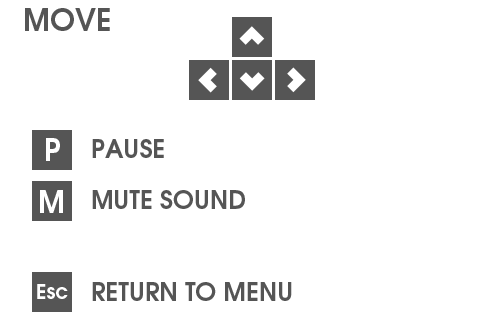
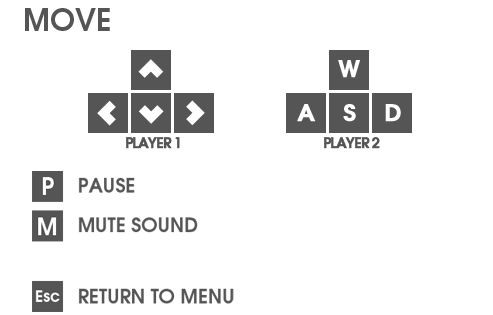
Controls page updated for multiplayer + header info added

Changed region(s): [[0.0609, 0.0286, 0.8519, 0.7714], [0.0609, 0.8571, 0.6085, 1.0]]

diff --git a/src/snake/control/ControlMenuSinglePlayer.java b/src/snake/control/ControlMenuSinglePlayer.java
@@ -1,6 +1,5 @@
 package snake.control;
 
-import java.awt.Color;
 import java.awt.event.ActionEvent;
 import java.awt.event.ActionListener;
 import java.awt.event.KeyAdapter;
@@ -12,13 +11,12 @@ import javax.swing.border.LineBorder;
 
 import snake.model.*;
 import snake.view.*;
-public class ControlMenuSinglePlayer extends KeyAdapter implements
-		ActionListener {
+public class ControlMenuSinglePlayer extends KeyAdapter implements ActionListener {
 
 	private Game game;
 	private View view;
 	private ViewMenuSinglePlayer viewMenuSinglePlayer;
-	private JButton play, back, easy, intermediate, hard, green, blue, red, yellow;
+	private JButton play, back, kindergarten, easy, intermediate, hard, green, blue, red, yellow;
 	private Border thickBorder;
 	
 	public ControlMenuSinglePlayer(Game game, View view) {
@@ -26,9 +24,9 @@ public class ControlMenuSinglePlayer extends KeyAdapter implements
 		this.view = view;
 		this.viewMenuSinglePlayer = view.getViewMenuSinglePlayer();
 		this.view.addKeyListener(this);
-		game.setTimedMovementSpeed(300); //default difficulty = easy
 		play = this.viewMenuSinglePlayer.getPlayButton();
 		back = this.viewMenuSinglePlayer.getBackButton();
+		kindergarten = this.viewMenuSinglePlayer.getKindergartenButton();
 		easy = this.viewMenuSinglePlayer.getEasyButton();
 		intermediate = this.viewMenuSinglePlayer.getIntermediateButton();
 		hard = this.viewMenuSinglePlayer.getHardButton();
@@ -36,8 +34,12 @@ public class ControlMenuSinglePlayer extends KeyAdapter implements
 		blue = this.viewMenuSinglePlayer.getBlueButton();
 		red = this.viewMenuSinglePlayer.getRedButton();
 		yellow = this.viewMenuSinglePlayer.getYellowButton();
+		game.disableTimedMovement(); //default difficulty = kindergarten
+		kindergarten.setBorder(new LineBorder(Colors.PANEL_COLOUR, 3));
+		
 		play.addActionListener(this);
 		back.addActionListener(this);
+		kindergarten.addActionListener(this);
 		easy.addActionListener(this);
 		intermediate.addActionListener(this);
 		hard.addActionListener(this);
@@ -45,8 +47,10 @@ public class ControlMenuSinglePlayer extends KeyAdapter implements
 		blue.addActionListener(this);
 		red.addActionListener(this);
 		yellow.addActionListener(this);
+		
 		play.setActionCommand("play");
 		back.setActionCommand("back");
+		kindergarten.setActionCommand("kindergarten");
 		easy.setActionCommand("easy");
 		intermediate.setActionCommand("intermediate");
 		hard.setActionCommand("hard");
@@ -63,34 +67,35 @@ public class ControlMenuSinglePlayer extends KeyAdapter implements
 		if (e.getActionCommand() == "play") {
 			playGame();
 		} else if (e.getActionCommand() == "kindergarten") {
-			// kindergarten.setBorderPainted(false);
-			//kindergarten.setBorderPainted(true);
+			kindergarten.setBorderPainted(true);
+			kindergarten.setBorder(thickBorder);
 			easy.setBorderPainted(false);
 			intermediate.setBorderPainted(false);
 			hard.setBorderPainted(false);
 			game.disableTimedMovement();
 		} else if (e.getActionCommand() == "easy") {
-			// kindergarten.setBorderPainted(false);
-			easy.setBorder(thickBorder);
+			kindergarten.setBorderPainted(false);
 			easy.setBorderPainted(true);
+			easy.setBorder(thickBorder);
 			intermediate.setBorderPainted(false);
 			hard.setBorderPainted(false);
 			game.enableTimedMovement();
 			game.setTimedMovementSpeed(300);
 		} else if (e.getActionCommand() == "intermediate"){
-			// kindergarten.setBorder(BorderFactory.createEmptyBorder());
+			kindergarten.setBorderPainted(false);
 			easy.setBorderPainted(false);
-			intermediate.setBorder(thickBorder);
 			intermediate.setBorderPainted(true);
+			intermediate.setBorder(thickBorder);
 			hard.setBorderPainted(false);
 			game.enableTimedMovement();
 			game.setTimedMovementSpeed(150);
 		} else if (e.getActionCommand() == "hard") {
-			// kindergarten.setBorderPainted(false);
+			kindergarten.setBorderPainted(false);
 			easy.setBorderPainted(false);
 			intermediate.setBorderPainted(false);
-			hard.setBorder(thickBorder);
 			hard.setBorderPainted(true);
+			hard.setBorder(thickBorder);
+			game.enableTimedMovement();
 			game.setTimedMovementSpeed(70);
 		} else if (e.getActionCommand() == "back") {
 			view.showMenu();

diff --git a/src/snake/view/ViewMenuSinglePlayer.java b/src/snake/view/ViewMenuSinglePlayer.java
@@ -19,7 +19,7 @@ public class ViewMenuSinglePlayer extends JPanel implements FocusListener {
 	private JFormattedTextField inputWidth, inputHeight;
 	private boolean valid, filled;
 	private JPanel panel;
-	private JButton play, easy, intermediate, hard, back, green, blue, red, yellow;
+	private JButton play, kindergarten, easy, intermediate, hard, back, green, blue, red, yellow;
 	
 	public ViewMenuSinglePlayer(View view, Game game){
 		this.view = view;
@@ -51,37 +51,34 @@ public class ViewMenuSinglePlayer extends JPanel implements FocusListener {
 		play = new JButton(new ImageIcon(Images.BUTTON_PLAY));
 		view.getViewMenu().setButton(play);
 		
+		kindergarten = new JButton(new ImageIcon(Images.DIFFICULTY_KINDERGARTEN));
+		view.getViewMenu().setButton(kindergarten);
 		easy = new JButton(new ImageIcon(Images.DIFFICULTY_EASY));
-		view.getViewMenu().setButton(easy);
-		easy.setBorder(new LineBorder(Colors.PANEL_COLOUR, 3));
+		view.getViewMenu().setOptionButton(easy);
 		intermediate = new JButton(new ImageIcon(Images.DIFFICULTY_INTERMEDIATE));
-		view.getViewMenu().setButton(intermediate);
-		intermediate.setBorderPainted(false);
+		view.getViewMenu().setOptionButton(intermediate);
 		hard = new JButton(new ImageIcon(Images.DIFFICULTY_HARD));
-		view.getViewMenu().setButton(hard);
-		hard.setBorderPainted(false);
+		view.getViewMenu().setOptionButton(hard);
 		
 		green = new JButton();
 		view.getViewMenu().setButton(green);
 		green.setBackground(Colors.GREEN);
 		green.setBorder(new LineBorder(Colors.PANEL_COLOUR, 3));
 		blue = new JButton();
-		view.getViewMenu().setButton(blue);
-		blue.setBorderPainted(false);
+		view.getViewMenu().setOptionButton(blue);
 		blue.setBackground(Colors.BLUE);
 		red = new JButton();
-		view.getViewMenu().setButton(red);
-		red.setBorderPainted(false);
+		view.getViewMenu().setOptionButton(red);
 		red.setBackground(Colors.RED);
 		yellow = new JButton();
-		view.getViewMenu().setButton(yellow);
-		yellow.setBorderPainted(false);
+		view.getViewMenu().setOptionButton(yellow);
 		yellow.setBackground(Colors.YELLOW);
 		
 		//adds
 		this.add(panel);
 		panel.add(inputWidth);
 		panel.add(inputHeight);
+		panel.add(kindergarten);
 		panel.add(easy);
 		panel.add(intermediate);
 		panel.add(hard);
@@ -100,6 +97,10 @@ public class ViewMenuSinglePlayer extends JPanel implements FocusListener {
 	
 	public JButton getBackButton() {
 		return back;
+	}
+	
+	public JButton getKindergartenButton() {
+		return kindergarten;
 	}
 	
 	public JButton getEasyButton() {
@@ -161,14 +162,17 @@ public class ViewMenuSinglePlayer extends JPanel implements FocusListener {
 		//Buttons
 		int buttonWidth = Images.BUTTON_PLAY.getWidth();
 		int buttonHeight = Images.BUTTON_PLAY.getHeight();
+		int difficultyWidth = Images.DIFFICULTY_EASY.getWidth();
+		int difficultyHeight = Images.DIFFICULTY_EASY.getHeight();
 
 		drawColourButtons(context2D);
 		
 		//Difficulty buttons
-		int space = (panel.getWidth()-3*buttonWidth)/4; //space between buttons
-		easy.setBounds(space, panel.getY()+280, buttonWidth, buttonHeight);
-		intermediate.setBounds(2*space+buttonWidth, panel.getY()+280, buttonWidth, buttonHeight);
-		hard.setBounds(3*space+2*buttonWidth, panel.getY()+280, buttonWidth, buttonHeight);
+		int space = (panel.getWidth()-4*difficultyWidth)/5; //space between buttons
+		kindergarten.setBounds(space, panel.getY()+280, difficultyWidth, difficultyHeight);
+		easy.setBounds(2*space+difficultyWidth, panel.getY()+280, difficultyWidth, difficultyHeight);
+		intermediate.setBounds(3*space+2*difficultyWidth, panel.getY()+280, difficultyWidth, difficultyHeight);
+		hard.setBounds(4*space+3*difficultyWidth, panel.getY()+280, difficultyWidth, difficultyHeight);
 	
 		//Play button and back button
 		int xBack = getSize().width/2-buttonWidth-10;

diff --git a/src/snake/view/Images.java b/src/snake/view/Images.java
@@ -25,6 +25,9 @@ public class Images {
 	public static final BufferedImage SNAKE_HORIZONTAL;
 	public static final BufferedImage SNAKE_VERTICAL;
 	public static final BufferedImage CONTROLS;
+	public static final BufferedImage INFO_KEYS;
+	public static final BufferedImage SOUND_ON;
+	public static final BufferedImage SOUND_OFF;
 	public static final BufferedImage TITLE_GAME_OVER;
 	public static final BufferedImage TITLE_GAME_WON;
 	public static final BufferedImage TITLE_PAUSED;
@@ -39,6 +42,7 @@ public class Images {
 	public static final BufferedImage BUTTON_PLAY_AGAIN; 
 	public static final BufferedImage BUTTON_MENU;
 	public static final BufferedImage BUTTON_BACK;
+	public static final BufferedImage DIFFICULTY_KINDERGARTEN;
 	public static final BufferedImage DIFFICULTY_EASY;
 	public static final BufferedImage DIFFICULTY_INTERMEDIATE;
 	public static final BufferedImage DIFFICULTY_HARD;
@@ -66,6 +70,9 @@ public class Images {
 		SNAKE_VERTICAL = loadImage("SnakeVertical.png");
 
 		CONTROLS = loadImage("ControlsImage.png");
+		INFO_KEYS = loadImage("InfoKeys.png");
+		SOUND_ON = loadImage("InfoNotMuted.png");
+		SOUND_OFF = loadImage("InfoMuted.png");
 		TITLE_GAME_OVER = loadImage("TitleGameOver.png");
 		TITLE_GAME_WON = loadImage("TitleGameWon.png");
 		TITLE_PAUSED = loadImage("TitlePaused.png");
@@ -82,6 +89,7 @@ public class Images {
 		BUTTON_MENU = loadImage("ButtonMenu.png");
 		BUTTON_BACK = loadImage("ButtonBack.png");
 		
+		DIFFICULTY_KINDERGARTEN = loadImage("DifficultyKindergarten.png");
 		DIFFICULTY_EASY = loadImage("DifficultyEasy.png");
 		DIFFICULTY_INTERMEDIATE = loadImage("DifficultyIntermediate.png");
 		DIFFICULTY_HARD = loadImage("DifficultyHard.png");

diff --git a/src/snake/view/ViewHeader.java b/src/snake/view/ViewHeader.java
@@ -15,17 +15,19 @@ public class ViewHeader extends JPanel implements Observer {
 	private static final int DEFAULT_LOGO_HEIGHT = 80;
 	
 	private Game game;
+	private View view;
 	private boolean showScore;
 	private Image logo;
 	private Font font;
 
-	public ViewHeader(Game game, boolean showScore) {
+	public ViewHeader(View view, Game game, boolean showScore) {
 		super();
 		
 		if (game == null) {
 			throw new NullPointerException();
 		}
 		this.font = new Font("Sans_Serif", Font.BOLD, 20);
+		this.view = view;
 		this.game = game;
 		this.showScore = showScore;
 		this.logo = Images.LOGO.getScaledInstance(DEFAULT_LOGO_WIDTH, DEFAULT_LOGO_HEIGHT, Image.SCALE_SMOOTH);
@@ -66,10 +68,23 @@ public class ViewHeader extends JPanel implements Observer {
 		
 		// Update the score (if we need to show scores).
 		if (showScore) {
+			((Graphics2D) context).setRenderingHint(RenderingHints.KEY_TEXT_ANTIALIASING,RenderingHints.VALUE_TEXT_ANTIALIAS_ON);
 			context.setFont(this.font);
 			int fontSize = font.getSize();
 			context.setColor(Color.WHITE);
 			context.drawString("Score: " + game.getScore(), fontSize, size.height/2 - fontSize/2);
+			
+			//Sound icon
+			Image soundIcon;		
+			if (view.getAudio().isMuted()){
+				soundIcon = Images.SOUND_OFF;
+			} else {
+				soundIcon = Images.SOUND_ON;
+			}
+			context.drawImage(soundIcon, size.width-Images.SOUND_OFF.getWidth()-10, 0, null);
+			
+			//Key info
+			context.drawImage(Images.INFO_KEYS, size.width-Images.INFO_KEYS.getWidth()-10, 35, null);
 		}
 	}
 	

diff --git a/src/snake/view/ViewBoard.java b/src/snake/view/ViewBoard.java
@@ -10,6 +10,7 @@ import snake.model.*;
 
 public class ViewBoard extends JPanel implements Observer {
 	private Game game;
+	private View view;
 	private JButton playAgainButton, menuButton;
 	private static final long serialVersionUID = 9109362543987437505L;
 
@@ -23,6 +24,7 @@ public class ViewBoard extends JPanel implements Observer {
 			throw new NullPointerException();
 		}
 		this.game = game;
+		this.view = view;
 		game.addObserver(this);
 		setBackground(Colors.PANEL_COLOUR);
 		
@@ -44,11 +46,6 @@ public class ViewBoard extends JPanel implements Observer {
 			this.add(menuButton);
 		}
 		repaint();
-	}
-
-	@Override
-	public Dimension getPreferredSize() {
-		return new Dimension(800, 100);
 	}
 
 	@Override
@@ -190,8 +187,7 @@ public class ViewBoard extends JPanel implements Observer {
 				- heightPopup / 2;
 		context.setColor(Colors.POPUP_COLOUR);
 		context.fillRect(xPopup, yPopup, widthPopup, heightPopup);
-		context.setRenderingHint(RenderingHints.KEY_TEXT_ANTIALIASING,
-				RenderingHints.VALUE_TEXT_ANTIALIAS_ON);
+		context.setRenderingHint(RenderingHints.KEY_TEXT_ANTIALIASING, RenderingHints.VALUE_TEXT_ANTIALIAS_ON);
 
 	}
 	private void drawGameLost(Graphics2D context) {
@@ -211,6 +207,7 @@ public class ViewBoard extends JPanel implements Observer {
 	}
 	
 	private void drawGameOver(Graphics2D context) {
+		view.getHeader().hideScore();
 		drawPopup(context);
 
 		// Text

diff --git a/src/snake/view/View.java b/src/snake/view/View.java
@@ -37,7 +37,7 @@ public class View extends JFrame {
 			throw new NullPointerException();
 		}
 		
-		this.headerPanel = new ViewHeader(game, false);
+		this.headerPanel = new ViewHeader(this, game, false);
 		this.menuPanel = new ViewMenu(this);
 		this.menuSinglePlayerPanel = new ViewMenuSinglePlayer(this, game);
 		this.menuMultiPlayerPanel = new ViewMenuMultiplayer(this, game);
@@ -120,6 +120,9 @@ public class View extends JFrame {
 		System.exit(0);
 	}
 	
+	public ViewHeader getHeader(){
+		return headerPanel;
+	}
 	@Override
 	public Dimension getPreferredSize() {
 		return new Dimension(800, 800);

diff --git a/src/snake/control/ControlBoard.java b/src/snake/control/ControlBoard.java
@@ -11,7 +11,7 @@ import snake.model.*;
 import snake.view.*;
 
 
-public class ControlBoard extends KeyAdapter implements ActionListener , Observer {
+public class ControlBoard extends KeyAdapter implements ActionListener, Observer {
 	
 	private Game game;
 	private View view;
@@ -67,6 +67,7 @@ public class ControlBoard extends KeyAdapter implements ActionListener , Observe
 			case KeyEvent.VK_SPACE:
 				if (game.getState() == Game.State.LOST){
 					game.restart();
+					view.showGame();
 					boardView.removeButtons();
 				}
 				break;

diff --git a/src/snake/control/Control.java b/src/snake/control/Control.java
@@ -46,10 +46,13 @@ public class Control extends KeyAdapter {
 			case KeyEvent.VK_M:
 				Audio audio = view.getAudio();
 				audio.setMuted(!audio.isMuted());
+				System.out.println(audio.isMuted());
+				view.getHeader().repaint();
 				break;
 			case KeyEvent.VK_ESCAPE:
 				view.showMenu();
 				view.getViewBoard().removeButtons();
+				System.out.println("escaped");
 				break;
 			default:
 				break;

diff --git a/src/snake/view/ViewMenu.java b/src/snake/view/ViewMenu.java
@@ -102,4 +102,9 @@ public class ViewMenu extends JPanel {
 		button.setPreferredSize(new Dimension(140, 50));
 		button.setCursor(new Cursor(Cursor.HAND_CURSOR));
 	}
+	
+	public void setOptionButton(JButton button){
+		setButton(button);
+		button.setBorderPainted(false);
+	}
 }
